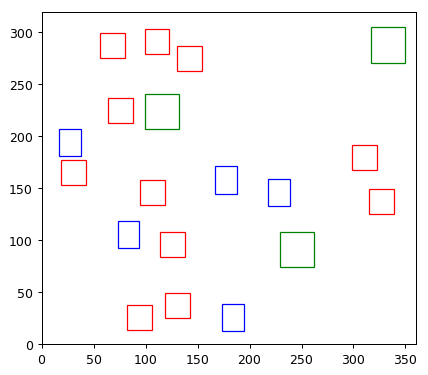
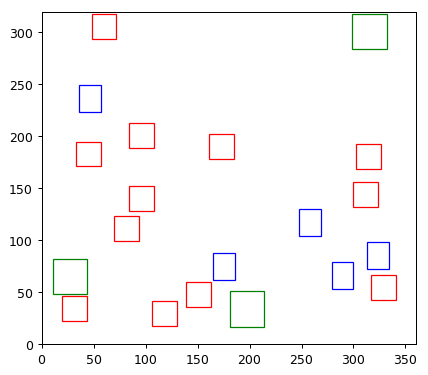
update

diff --git a/amstelhaegen_algoritme.py b/amstelhaegen_algoritme.py
@@ -13,7 +13,7 @@ import timeit
 
 start = timeit.default_timer()
 
-ITERATIONS = 100000
+ITERATIONS = 1000000
 TOTAL_HOUSES = 20
 X_DIMENSION = 360
 Y_DIMENSION = 320
@@ -233,7 +233,7 @@ if __name__ == "__main__":
 		h_counter, b_counter, m_counter = 0, 0, 0
 
 		# build houses until maximum is reached
-		while len(buildings) < TOTAL_HOUSES:
+		while (len(buildings) - 1) < TOTAL_HOUSES:
 
 	        # choose random building type
 			building_type = random.choice(['house', 'bungalow', 'maison'])

diff --git a/amstelhaegen.py b/amstelhaegen.py
@@ -236,7 +236,7 @@ if __name__ == "__main__":
 	h_counter, b_counter, m_counter = 0, 0, 0
 
 	# build houses until maximum is reached
-	while len(buildings) < TOTAL_HOUSES:
+	while (len(buildings) - 1) < TOTAL_HOUSES:
 
         # choose random building type
 		building_type = random.choice(['house', 'bungalow', 'maison'])
